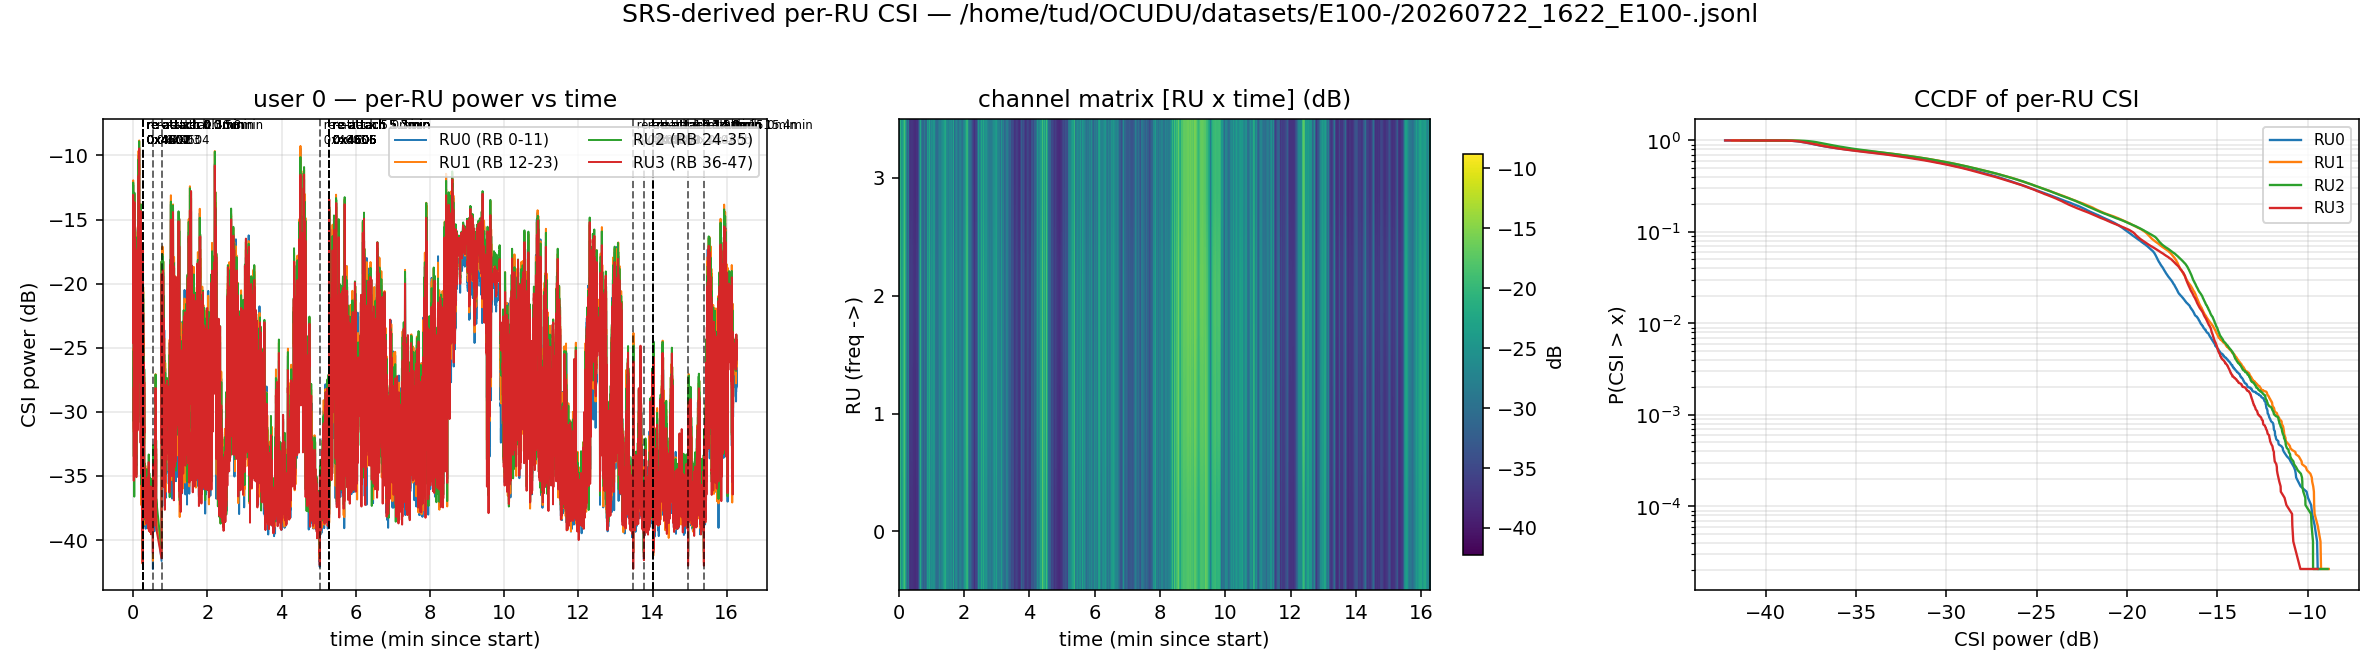
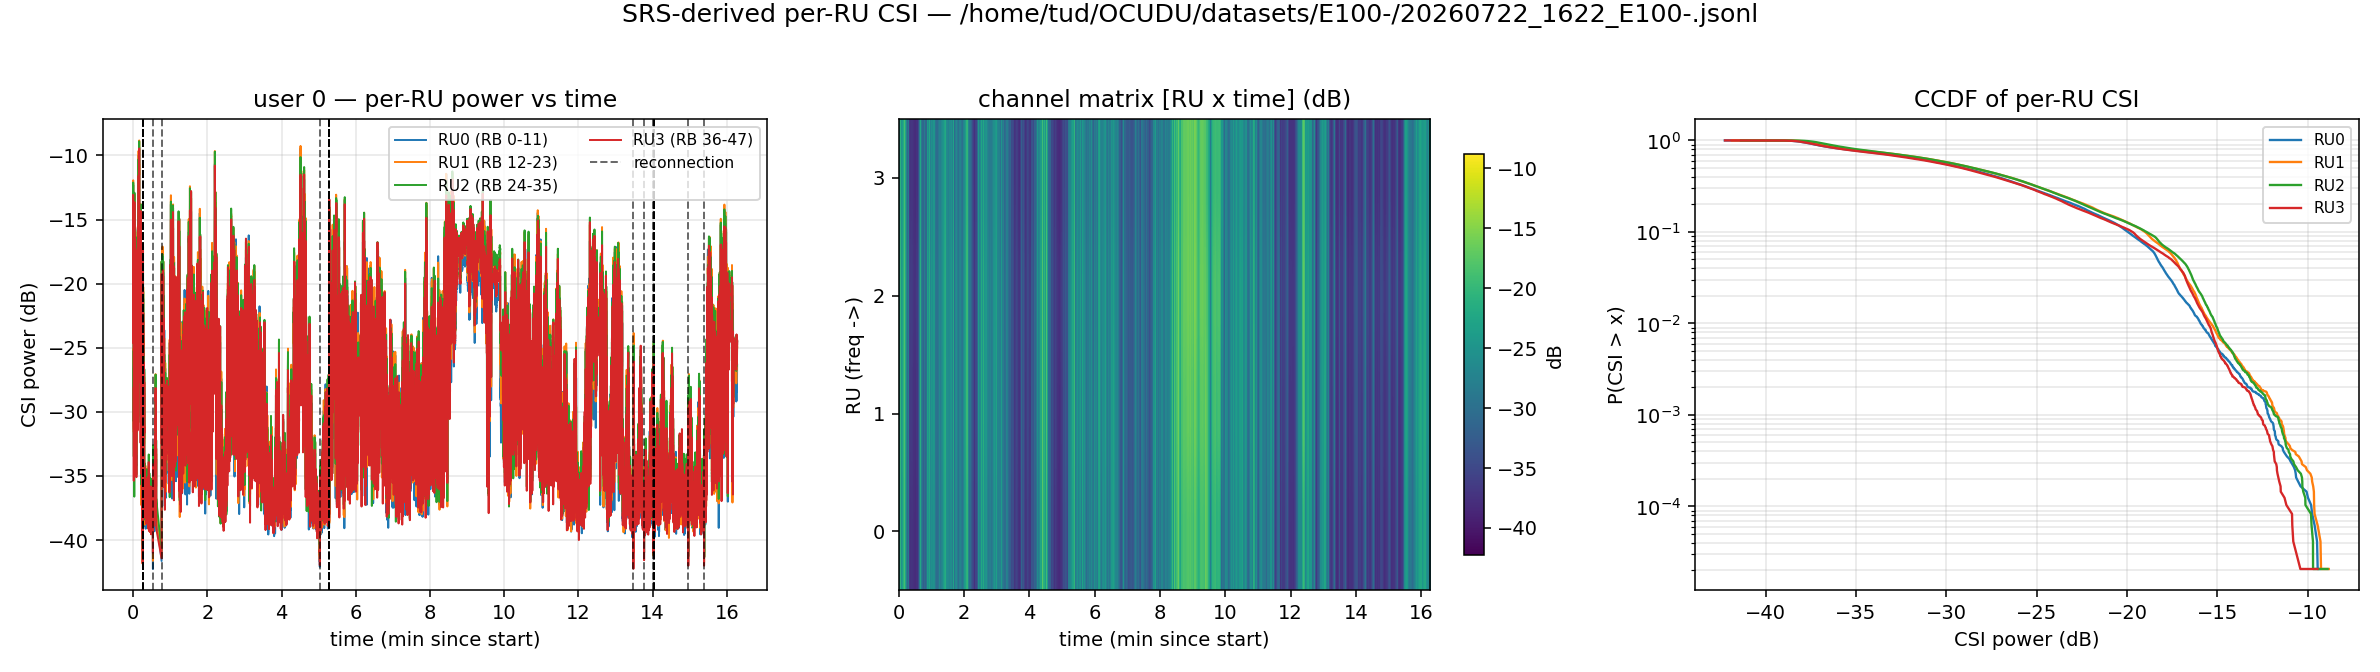
fix: remove reconnection text clutter from CSI plots, keep dashed markers + legend entry

diff --git a/tools/plot_csi.py b/tools/plot_csi.py
@@ -63,12 +63,10 @@ def main():
         ax = axes[row][0]
         for r in range(R):
             ax.plot(x, M[:,r], lw=1.0, label=f"RU{r} (RB {12*r}-{12*r+11})")
-        for c in cuts[1:-1]:                       # mark re-attach events (rnti change)
+        for i, c in enumerate(cuts[1:-1]):          # mark re-attach events (rnti change)
             xc = x[c]
-            ax.axvline(xc, color="k", ls="--", lw=1, alpha=0.6)
-            tlab = f"{xc:.1f}min" if have_t else f"#{c}"
-            ax.text(xc, ax.get_ylim()[1], f" re-attach {tlab}\n {hex(int(rn[c]))}",
-                    fontsize=6, va="top", ha="left", color="k")
+            ax.axvline(xc, color="k", ls="--", lw=1, alpha=0.6,
+                       label="reconnection" if i == 0 else None)
         ax.set_title(f"user {ukey} — per-RU power vs {'time' if have_t else 'sample'}")
         ax.set_xlabel(xlabel); ax.set_ylabel("CSI power (dB)")
         ax.grid(alpha=0.3); ax.legend(fontsize=8, ncol=2)
